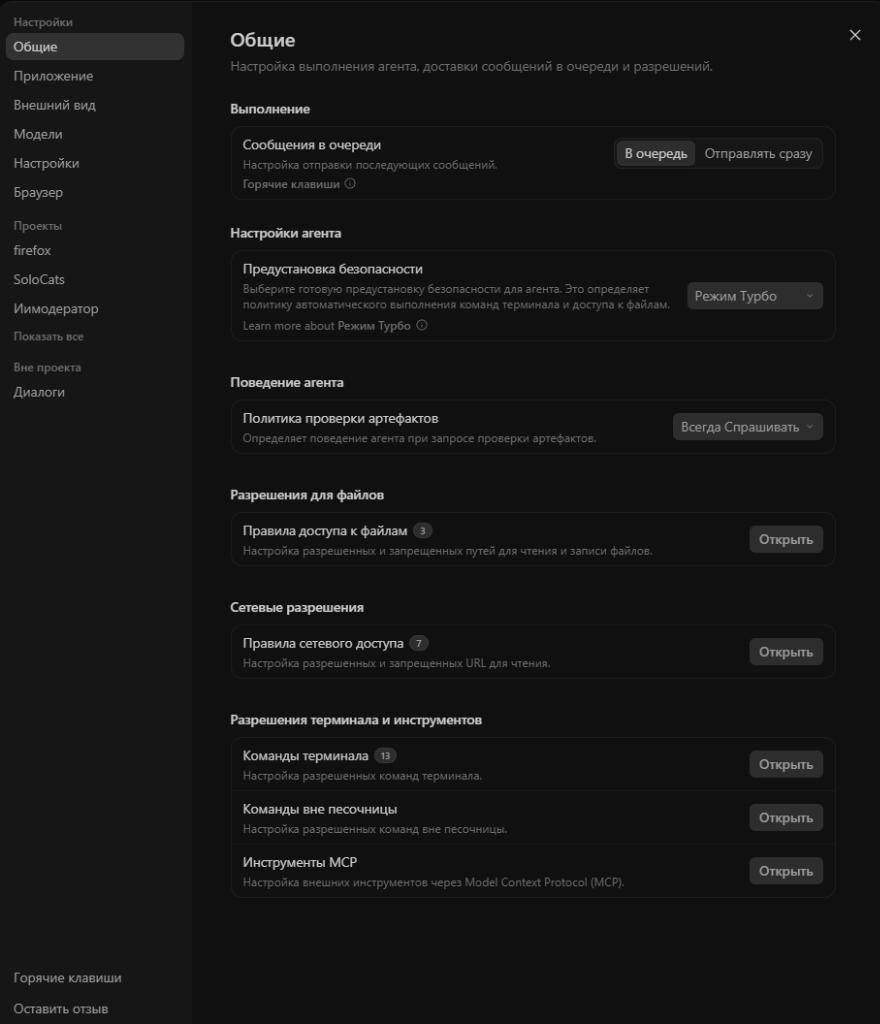
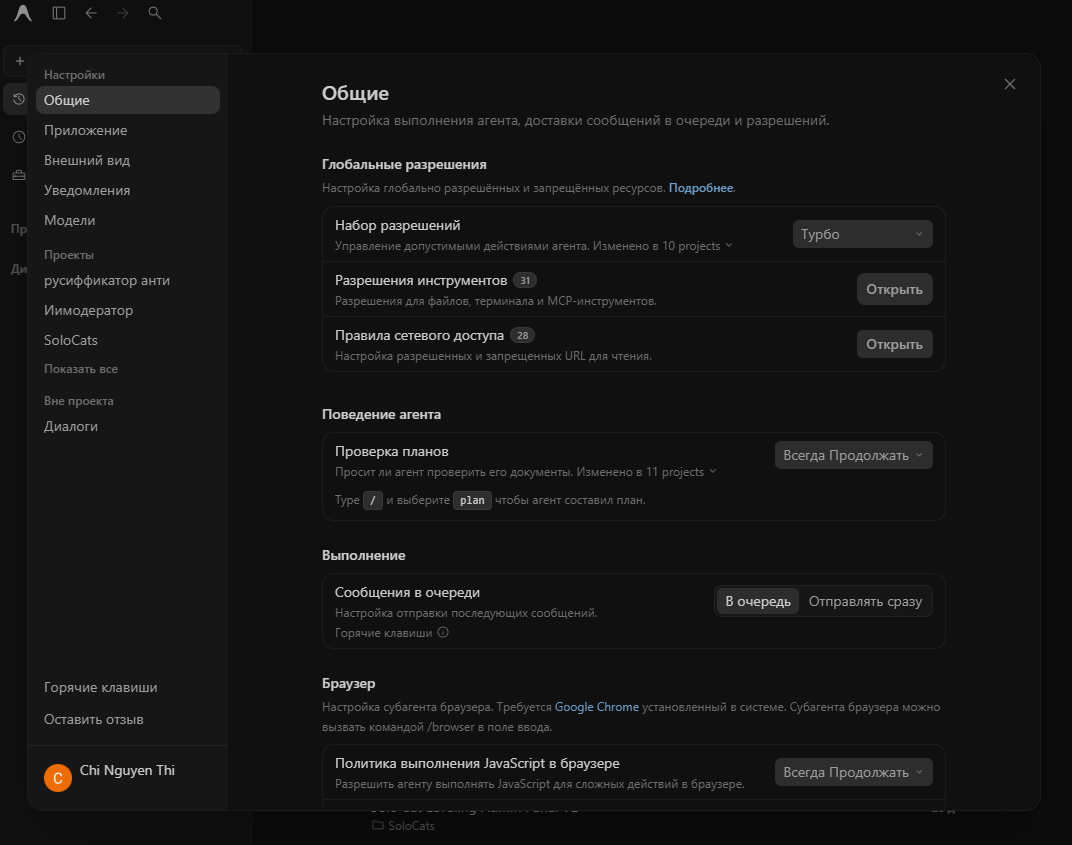
feat(i18n): expand RU translations (1095 strings), new screenshots
- i18n-ru.js: fix placeholders in input/textarea never being translated
- Customizations -> «Дополнения» (was colliding with Settings -> «Настройки»)
- add Marketplace plugin descriptions, slash command descriptions,
  project menu, add-context menu, permission presets, display options
- add rules: N tools enabled/disabled, See N more, relative time (6m, 17h)
- README: new screenshots (main window, general settings, customizations),
  updated translated strings count

diff --git a/resources/web_bundle_ru/i18n-ru.js b/resources/web_bundle_ru/i18n-ru.js
@@ -134,7 +134,7 @@
   "Collapse idle": "Свернуть неактивные",
   "Cancel Sending Message": "Отменить отправку сообщения",
   "Cancel Step": "Отменить шаг",
-  "Configure workspace-specific permissions, resources, and customizations.": "Настройка разрешений, ресурсов и параметров рабочей области.",
+  "Configure workspace-specific permissions, resources, and customizations.": "Настройка разрешений, ресурсов и дополнений рабочей области.",
   "Configure the default width of markdown artifacts.": "Настроить ширину Markdown-артефактов по умолчанию.",
   "Commands and files these agents can use.": "Команды и файлы, доступные этим агентам.",
   "Commands the agent can run outside the sandbox in this workspace.": "Команды, разрешённые вне песочницы в этой рабочей области.",
@@ -326,10 +326,10 @@
   "Projects": "Проекты",
   "Scheduled Tasks": "Запланированные задачи",
   "Scheduled tasks": "Запланированные задачи",
-  "Skills & Customizations": "Навыки и настройки",
-  "Skills & customizations": "Навыки и настройки",
-  "Customizations": "Настройки",
-  "Customization": "Настройки",
+  "Skills & Customizations": "Навыки и дополнения",
+  "Skills & customizations": "Навыки и дополнения",
+  "Customizations": "Дополнения",
+  "Customization": "Дополнение",
   "Settings": "Настройки",
   "UI Plugins": "UI Плагины",
   "UI plugins": "UI Плагины",
@@ -517,10 +517,10 @@
   "Browser CDP Port": "Порт CDP браузера",
   "Port number for Chrome DevTools Protocol remote debugging. Leave empty for default (9222).": "Порт для удаленной отладки Chrome DevTools Protocol. По умолчанию (9222).",
   "Show Selection Actions": "Действия с выделенным текстом",
-  "Include Jetski Default Customizations": "Включить стандартные настройки",
+  "Include Jetski Default Customizations": "Включить стандартные дополнения",
   "Include default customizations, such as default skills.": "Включать базовые навыки и правила по умолчанию.",
-  "Enable Personal Customizations": "Включить персональные настройки",
-  "Layer your personal customizations (skills, rules, etc.) from your config on top of the active profile.": "Применять персональные настройки (навыки, правила и др.) поверх активного профиля.",
+  "Enable Personal Customizations": "Включить персональные дополнения",
+  "Layer your personal customizations (skills, rules, etc.) from your config on top of the active profile.": "Применять персональные дополнения (навыки, правила и др.) поверх активного профиля.",
   "Inline Actions": "Быстрые действия",
   "Show a floating notification card when background conversations need your input. Answer questions, approve commands, and grant permissions without leaving your current conversation. Share feedback at go/inline-actions-feedback.": "Отображать карточку уведомлений, когда фоновым задачам требуется подтверждение.",
   "Always Proceed": "Всегда продолжать",
@@ -882,10 +882,10 @@
   "A high-risk mode that disables all safety barriers. The agent operates with full system access, auto-executes all terminal commands, and reads or writes to all local files without review prompts.": "Режим повышенного риска без ограничений. Агент выполняет команды терминала и работает с файлами без запросов подтверждения.",
   "Configure default behaviors, skills, and MCP servers.": "Настройка поведения по умолчанию, навыков и серверов MCP.",
   "Token Usage": "Использование токенов",
-  "The breakdown below shows token usage from customizations like skills, rules, and MCP. If the budget is exceeded, large customizations will be truncated automatically.": "Расход токенов на настройки (навыки, правила, MCP). При превышении лимита крупные элементы автоматически усекаются.",
-  "% of the customization budget is available.": "% бюджета настроек доступно.",
-  "Customization token budget exceeded. Large customizations will be truncated.": "Лимит токенов на настройки превышен. Крупные элементы будут усечены.",
-  "There are no customizations enabled.": "Настройки не включены.",
+  "The breakdown below shows token usage from customizations like skills, rules, and MCP. If the budget is exceeded, large customizations will be truncated automatically.": "Расход токенов на дополнения (навыки, правила, MCP). При превышении лимита крупные элементы автоматически усекаются.",
+  "% of the customization budget is available.": "% бюджета дополнений доступно.",
+  "Customization token budget exceeded. Large customizations will be truncated.": "Лимит токенов на дополнения превышен. Крупные элементы будут усечены.",
+  "There are no customizations enabled.": "Дополнения не включены.",
   "Loading token usage...": "Загрузка расхода токенов...",
   "Rules": "Правила",
   "Skills": "Навыки",
@@ -895,9 +895,9 @@
   "tokens": "токенов",
   "token": "токен",
   "Hide breakdown": "Скрыть детали",
-  "Default Customizations": "Настройки по умолчанию",
-  "Personal Customizations": "Персональные настройки",
-  "When enabled, the agent will include default customizations, including default skills.": "При включении агент будет использовать стандартные настройки и навыки.",
+  "Default Customizations": "Дополнения по умолчанию",
+  "Personal Customizations": "Персональные дополнения",
+  "When enabled, the agent will include default customizations, including default skills.": "При включении агент будет использовать стандартные дополнения и навыки.",
   "Plugins": "Плагины",
   "Build With Google Plugins": "Плагины Build With Google",
   "Browse and enable plugins from the Build With Google catalog.": "Просмотр и включение плагинов из каталога Build With Google.",
@@ -999,7 +999,7 @@
   "Workspace File Access": "Доступ к файлам рабочей области",
   "Workspace Command Access": "Доступ к командам рабочей области",
   "Workspace Web Access": "Веб-доступ рабочей области",
-  "Search customizations...": "Поиск настроек...",
+  "Search customizations...": "Поиск дополнений...",
   "Search flags": "Поиск флагов",
   "Search all convos...": "Поиск по всем диалогам...",
   "Enter file or directory path...": "Введите путь к файлу или папке...",
@@ -1039,7 +1039,121 @@
   "Privacy Notice": "Уведомление о конфиденциальности",
   "Google Privacy Policy": "Политика конфиденциальности Google",
   "Email": "Электронная почта",
-  "You cannot sign out from Remote Control. Please sign out on your local application.": "Нельзя выйти через Remote Control. Выйдите в локальном приложении."
+  "You cannot sign out from Remote Control. Please sign out on your local application.": "Нельзя выйти через Remote Control. Выйдите в локальном приложении.",
+
+  // --- 2.26.0: строки со скриншотов (выбор проекта, дополнения, автоматизации, история) ---
+  "No Project": "Без проекта",
+  "Search Projects": "Поиск проектов",
+  "Search Recent Workspaces": "Поиск недавних рабочих областей",
+  "Quick Start": "Быстрый старт",
+  "Outside of Project": "Вне проекта",
+  "Marketplace": "Маркетплейс",
+  "No custom agents yet.": "Пользовательских агентов пока нет.",
+  "Global": "Глобальный",
+  "Create with Prompt": "Создать по запросу",
+  "New": "Создать",
+  "No automations configured.": "Автоматизации не настроены.",
+  "No automations matching your search": "Нет автоматизаций по запросу",
+  "This page is going away soon": "Эта страница скоро исчезнет",
+  "Search conversations with": "Ищите диалоги через",
+  "in the top left.": "в левом верхнем углу.",
+  "View archived in the sidebar": "Архивные — в боковой панели",
+  "View archived in the sidebar (": "Архивные — в боковой панели (",
+  "menu)": "меню)",
+  "menu).": "меню).",
+  "Conversation Archived": "Диалог перенесён в архив",
+  "now": "сейчас",
+
+  // --- 2.26.0: палитра команд, боковая панель, меню отображения ---
+  "Commands": "Команды",
+  "Search for commands...": "Поиск команд...",
+  "Open Project Picker": "Открыть выбор проекта",
+  "Display Options": "Параметры отображения",
+  "Create New Project": "Создать проект",
+  "Project": "Проект",
+  "Status": "Статус",
+  "None": "Нет",
+  "Last Updated": "Последнее обновление",
+  "Last Prompt": "Последний запрос",
+  "Sort Projects": "Сортировка проектов",
+  "Sort Workspaces": "Сортировка рабочих областей",
+  "Custom Order": "Свой порядок",
+  "Display": "Отображение",
+  "Show All": "Показать все",
+  "Show Less": "Свернуть",
+  "See more": "Показать ещё",
+
+  // --- 2.26.0: настройки (общие, внешний вид, уведомления, проект) ---
+  // "Type" в подсказке «Type / and select plan…» не переводится: та же строка — заголовок «Тип» в фильтрах.
+  "Global Permissions": "Глобальные разрешения",
+  "Configure global allowed and denied resource permissions.": "Настройка глобально разрешённых и запрещённых ресурсов.",
+  "Modified in": "Изменено в",
+  "Tool Permissions": "Разрешения инструментов",
+  "Modify permissions for file, terminal, and MCP tools.": "Разрешения для файлов, терминала и MCP-инструментов.",
+  "Modify permissions for file and terminal tools.": "Разрешения для файлов и терминала.",
+  "Plan Review Policy": "Проверка планов",
+  "Whether the agent asks you to review its documents.": "Просит ли агент проверить его документы.",
+  "and select": "и выберите",
+  "to have the agent generate a plan.": "чтобы агент составил план.",
+  "Contrast": "Контраст",
+  "Strong": "Высокий",
+  "Show system notifications when your action is needed or the agent finishes.": "Системные уведомления, когда нужно ваше действие или агент закончил работу.",
+  "Sound": "Звук",
+  "Play a sound when your action is needed or the agent finishes.": "Звуковой сигнал, когда нужно ваше действие или агент закончил работу.",
+  "Volume": "Громкость",
+  "Set the volume of agent sounds.": "Громкость звуков агента.",
+  "Permission Settings": "Настройки разрешений",
+  "Also includes": "Также действуют",
+  "when working": "при работе",
+  "in this project": "в этом проекте",
+  "in these conversations": "в этих диалогах",
+  "tokens (": "токенов (",
+  "Other Customizations": "Прочие дополнения",
+  "The breakdown below shows token usage from customizations like rules, skills, and MCP. If a budget is exceeded, large rules are demoted to path pointers and large customizations are excluded automatically.": "Ниже — расход токенов на дополнения: правила, навыки и MCP. При превышении лимита крупные правила заменяются ссылками на файлы, а крупные дополнения автоматически отключаются.",
+
+  // --- 2.26.0: Marketplace. Тексты приходят с сервера; оригиналы — в ~/.gemini/antigravity/cache/marketplaces/*/marketplace.json ---
+  "Connect to Google Workspace, including Docs, Sheets, Slides, Drive, and Calendar.": "Подключение к Google Workspace: Документы, Таблицы, Презентации, Диск и Календарь.",
+  "Build on Google's developer platforms, including Android, Chrome, Gemini, and Google Cloud.": "Разработка на платформах Google: Android, Chrome, Gemini и Google Cloud.",
+  "This plugin provides a specialized suite of skills for data engineers and database practitioners working on Google Cloud. It acts as an expert assistant, allowing you to use natural language prompts in your preferred coding agent to architect complex data pipelines, transform data with dbt, write Spark and BigQuery SQL notebooks, and orchestrate end-to-end workflows across GCP's data ecosystem.": "Набор навыков для инженеров данных и специалистов по базам данных в Google Cloud. Помогает на естественном языке проектировать сложные конвейеры данных, преобразовывать данные с dbt, писать блокноты Spark и BigQuery SQL и управлять сквозными процессами в экосистеме данных GCP.",
+  "Check availability, schedule events, and RSVP.": "Проверка занятости, планирование событий и ответы на приглашения.",
+  "Read, draft, and edit docs.": "Чтение, написание и редактирование документов.",
+  "Search, upload, download, and share files.": "Поиск, загрузка, скачивание файлов и общий доступ к ним.",
+  "Read, write, and format spreadsheets.": "Чтение, запись и форматирование таблиц.",
+  "Read, edit, and export presentations.": "Чтение, редактирование и экспорт презентаций.",
+  "Core tools and knowledge required to develop for Android.": "Основные инструменты и знания для разработки под Android.",
+  "Reliable automation, in-depth debugging, and performance analysis in Chrome using Chrome DevTools and Puppeteer": "Надёжная автоматизация, глубокая отладка и анализ производительности в Chrome с помощью Chrome DevTools и Puppeteer",
+  "Prototype, build & run modern apps that users love with Firebase's backend, AI, and operational infrastructure.": "Прототипы, разработка и запуск современных приложений на бэкенде, ИИ и инфраструктуре Firebase.",
+  "Using the Google Antigravity Python SDK to build AI agents": "Создание ИИ-агентов с помощью Google Antigravity Python SDK",
+  "Search and retrieve official documentation across Google Cloud, Gemini, Android, Firebase, Flutter, and Web. Requires Google Cloud credentials (ADC) or an API key.": "Поиск официальной документации по Google Cloud, Gemini, Android, Firebase, Flutter и Web. Нужны учётные данные Google Cloud (ADC) или ключ API.",
+  "Integration skill and tools for Google Maps Platform APIs": "Навык интеграции и инструменты для API Google Maps Platform",
+  "Curated collection of agent skills for science tasks.": "Подборка навыков агента для научных задач.",
+  "Build applications with the Gemini Interactions API and Live API, including text, image, video, and speech generation, managed agents, and real-time multimodal streaming.": "Создание приложений на Gemini Interactions API и Live API: генерация текста, изображений, видео и речи, управляемые агенты и мультимодальная потоковая передача в реальном времени.",
+  "Google Cloud guidance for coding agents: first-project onboarding, authentication and credential selection, and safety-critical validation for gcloud CLI commands. Includes the Google Developer Knowledge MCP server for grounded, up-to-date Google Cloud documentation.": "Руководство по Google Cloud для агентов: первый проект, аутентификация и выбор учётных данных, проверка опасных команд gcloud CLI. Включает MCP-сервер Google Developer Knowledge с актуальной документацией Google Cloud.",
+  "Keep your coding agent up to date with the latest web best practices.": "Держит агента в курсе актуальных практик веб-разработки.",
+  "Official plugin for Dart and Flutter that installs Flutter/Dart Skills, Rules, Custom Agents, and Dart MCP server for building natively compiled, visually stunning applications for mobile, web, desktop, and embedded devices from a single codebase": "Официальный плагин Dart и Flutter: устанавливает навыки, правила и агентов Flutter/Dart и MCP-сервер Dart для нативных приложений под мобильные, веб, десктоп и встраиваемые устройства из одной кодовой базы",
+
+  // --- 2.26.0: меню проекта, добавление контекста, слэш-команды, режимы разрешений ---
+  "Copy Project Name": "Скопировать название проекта",
+  "Copy Workspace Name": "Скопировать название рабочей области",
+  "Show in File Explorer": "Показать в проводнике",
+  "Delete Project": "Удалить проект",
+  "Delete Workspace": "Удалить рабочую область",
+  "Add context": "Добавить контекст",
+  "Files": "Файлы",
+  "Folder": "Папка",
+  "Mentions": "Упоминания",
+  "Actions": "Действия",
+  "Extensions": "Расширения",
+  "Run until the specified goal is completely finished.": "Работать, пока указанная цель не будет полностью достигнута.",
+  "Compact the conversation now (summarize history to free up the context window).": "Сжать диалог сейчас (кратко пересказать историю, чтобы освободить контекстное окно).",
+  "Run an instruction on a recurring schedule or as a one-time timer.": "Выполнять инструкцию по расписанию или один раз по таймеру.",
+  "Invoke a browser agent for web tasks.": "Вызвать агента-браузер для веб-задач.",
+  "Plan carefully before executing a task.": "Тщательно спланировать задачу перед выполнением.",
+  "Interview me to align on a plan.": "Расспросить меня, чтобы согласовать план.",
+  "Invoke a team of agents to autonomously tackle large projects.": "Вызвать команду агентов для самостоятельной работы над крупными проектами.",
+  "Reflect on recent successes or corrections to capture reusable skills or rules.": "Разобрать недавние удачи и исправления и сохранить их как навыки или правила.",
+  "Every command requires approval.": "Каждая команда требует подтверждения.",
+  "Run all commands without restrictions.": "Выполнять все команды без ограничений."
 };
 
   function formatTime(str) {
@@ -1186,6 +1300,30 @@
     {
       regex: /^(\d+)\s+items?$/i,
       replace: function (m) { return m[1] + " эл."; }
+    },
+    {
+      regex: /^(\d+) tools? enabled$/,
+      replace: function (m) { return "Включено инструментов: " + m[1]; }
+    },
+    {
+      regex: /^(\d+) tools? disabled$/,
+      replace: function (m) { return "Отключено инструментов: " + m[1]; }
+    },
+    {
+      regex: /^See (\d+) more$/,
+      replace: function (m) { return "Ещё " + m[1]; }
+    },
+    {
+      regex: /^Inherits your Global Permissions when working (.+)\.$/,
+      replace: function (m) { return "Наследует глобальные разрешения при работе " + (DICT[m[1]] || m[1]) + "."; }
+    },
+    // Короткое «сколько прошло» в списке диалогов: 6m, 17h, 19d. Регистр важен: «6M» — это не минуты.
+    {
+      regex: /^(\d+)(m|h|d|w|mo|y)$/,
+      replace: function (m) {
+        const UNITS = { m: "мин", h: "ч", d: "д", w: "нед", mo: "мес", y: "г" };
+        return m[1] + " " + UNITS[m[2]];
+      }
     }
   ];
 
@@ -1247,7 +1385,10 @@
         node.nodeValue = translated;
       }
     } else if (node.nodeType === Node.ELEMENT_NODE) {
-      if (isIgnored(node)) return;
+      // INPUT и TEXTAREA в IGNORE_TAGS, чтобы не трогать набранный текст. Но их подсказки
+      // (placeholder, title) переводить нужно, поэтому для полей проверяем только предков.
+      const isField = node.tagName === 'INPUT' || node.tagName === 'TEXTAREA';
+      if (isIgnored(isField ? node.parentElement : node)) return;
 
       if (node.hasAttribute('placeholder')) {
         const trans = translateString(node.getAttribute('placeholder'));

diff --git a/README.md b/README.md
@@ -7,7 +7,7 @@
 
 [![Antigravity Version](https://img.shields.io/badge/Antigravity-2.11.x%20–%202.26.0-6366f1?style=for-the-badge&logo=google&logoColor=white)](https://github.com/SPIDIKSY/antigravity-ru)
 [![Platform](https://img.shields.io/badge/Платформа-Windows-0078D6?style=for-the-badge&logo=windows&logoColor=white)](https://github.com/SPIDIKSY/antigravity-ru)
-[![Translated](https://img.shields.io/badge/Перевод-990%2B%20строк-10b981?style=for-the-badge)](https://github.com/SPIDIKSY/antigravity-ru)
+[![Translated](https://img.shields.io/badge/Перевод-1090%2B%20строк-10b981?style=for-the-badge)](https://github.com/SPIDIKSY/antigravity-ru)
 [![License](https://img.shields.io/badge/Лицензия-MIT-f59e0b?style=for-the-badge)](https://github.com/SPIDIKSY/antigravity-ru/blob/main/LICENSE)
 
 [![Telegram Chat](https://img.shields.io/badge/Наш%20Telegram--чат-Сообщить%20об%20ошибке%20%2F%20Обсуждение-26A5E4?style=for-the-badge&logo=telegram&logoColor=white)](https://t.me/spididyanty)
@@ -48,18 +48,18 @@ irm https://raw.githubusercontent.com/SPIDIKSY/antigravity-ru/main/install.ps1 |
 
 <div align="center">
 
+### Главное окно
+<img src="screenshots/main-window.png" alt="Главное окно" width="90%">
+
+<br><br>
+
 ### Настройки (Общие и Поведение агента)
 <img src="screenshots/general-settings.png" alt="Общие настройки" width="90%">
 
 <br><br>
 
-### Настройки (Внешний вид и Интерфейс)
-<img src="screenshots/appearance.png" alt="Внешний вид" width="90%">
-
-<br><br>
-
-### Настройки проекта и Расход токенов
-<img src="screenshots/project-settings.png" alt="Настройки проекта" width="90%">
+### Дополнения и Маркетплейс
+<img src="screenshots/customizations.png" alt="Дополнения и Маркетплейс" width="90%">
 
 </div>
 
@@ -69,7 +69,9 @@ irm https://raw.githubusercontent.com/SPIDIKSY/antigravity-ru/main/install.ps1 |
 
 | Раздел | Детали перевода |
 | :--- | :--- |
-| **Все вкладки настроек** | Общие, Приложение, Внешний вид, Модели, Настройки проекта, Браузер (более **990 фраз**). |
+| **Все вкладки настроек** | Общие, Приложение, Внешний вид, Модели, Настройки проекта, Браузер (более **1090 фраз**). |
+| **Дополнения и Маркетплейс** | Разделы «Маркетплейс» и «Установлено», описания плагинов Google, поиск и фильтры. |
+| **Слэш-команды и меню** | Описания команд (`/goal`, `/plan`, `/schedule` и др.), меню проекта, добавление контекста, режимы разрешений. |
 | **Безопасность и доступы** | Профили поведения агента, права на чтение и запись файлов, сетевой доступ, терминал и MCP. |
 | **Расход токенов** | Статистика контекста на правила (`Rules`), навыки (`Skills`) и MCP-серверы с выпадающими списками. |
 | **Контроль версий (Git)** | Незафиксированные файлы, изменения агента, переключение веток и статусы репозитория. |
